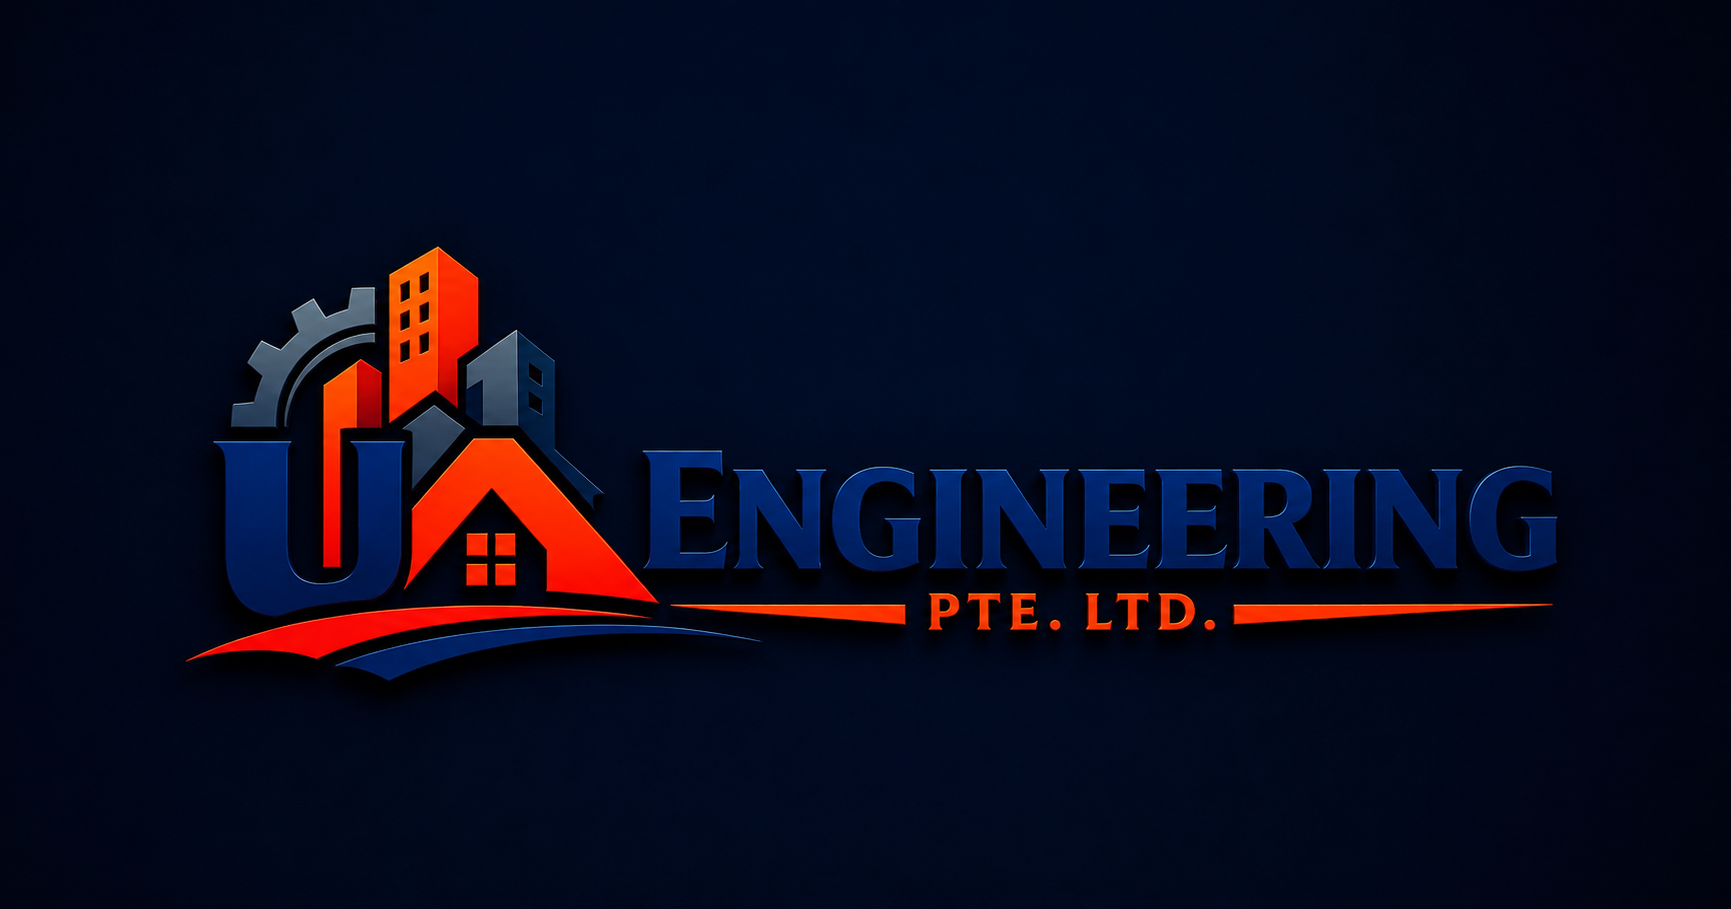
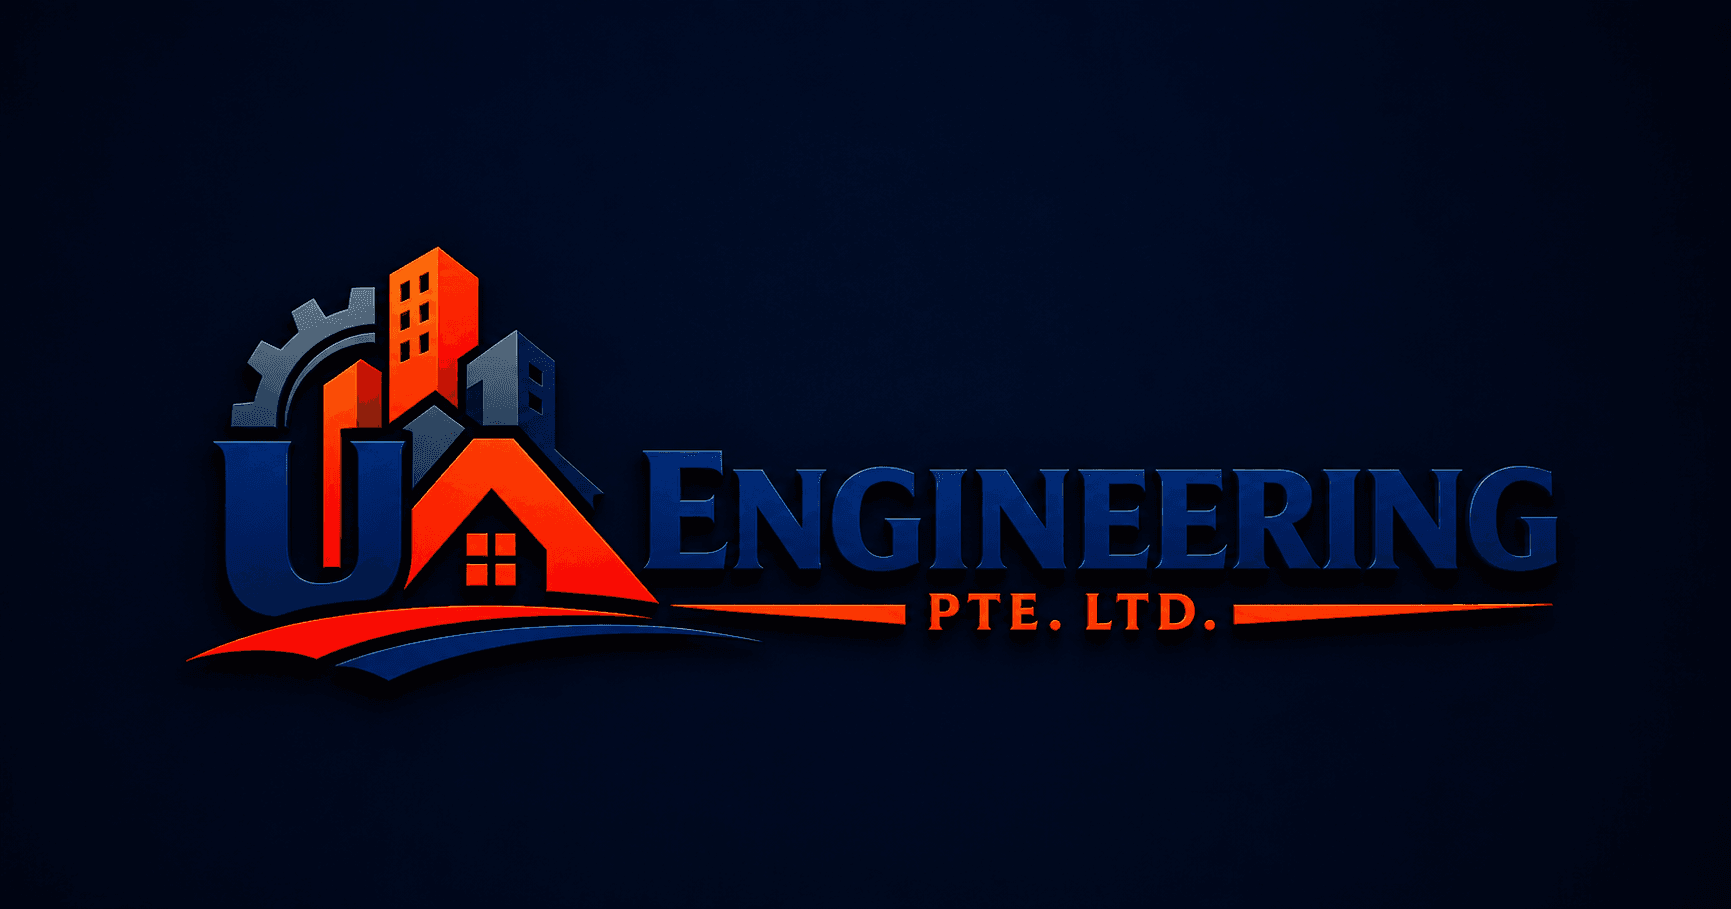
CallBackSection added and OG image added

Changed region(s): [[0.1872, 0.4312, 0.2184, 0.4928], [0.2184, 0.308, 0.2496, 0.3388]]

diff --git a/components/home/CallBackSection.tsx b/components/home/CallBackSection.tsx
@@ -1,0 +1,105 @@
+"use client";
+
+import Image from "next/image";
+import { User, Phone, Briefcase, ChevronDown, Send } from "lucide-react";
+import Container from "components/shared/Container";
+
+export default function CallBackSection() {
+    return (
+        <section className="relative overflow-hidden bg-[#0d121d]">
+            {/* Background Image */}
+            <Image
+                src="/images/home/call/callback-bg.png"
+                alt="UA Engineering"
+                fill
+                priority
+                className="object-cover opacity-25"
+            />
+
+            {/* Overlay */}
+            <div className="absolute inset-0 bg-black/60 " />
+
+            <Container className="relative z-10">
+                <div className="flex flex-col gap-6 py-8 lg:flex-row lg:items-center lg:justify-between lg:py-12">
+                    {/* Left Side */}
+                    <div className="flex items-center gap-6 lg:max-w-xl">
+                        <div className="relative h-[160px] w-[160px] shrink-0 md:h-[190px] md:w-[190px] lg:h-[220px] lg:w-[220px]">
+                            <Image
+                                src="/images/home/call/call-support.png"
+                                alt="Call Support"
+                                fill
+                                className="object-contain"
+                            />
+                        </div>
+
+                        <div>
+                            <h2 className="text-2xl font-extrabold text-white md:text-3xl lg:text-4xl tracking-tight leading-tight">
+                                Let Us Call You
+                            </h2>
+                            <p className="mt-2 text-sm md:text-base text-white/80 max-w-sm">
+                                Need help now? Send a few details - we’ll call you shortly.
+                            </p>
+                        </div>
+                    </div>
+
+                    {/* Form */}
+                    <div className="w-full lg:max-w-2xl xl:max-w-3xl">
+                        <form className="grid gap-3 sm:grid-cols-2 lg:grid-cols-4">
+                            {/* Name Input */}
+                            <div className="relative group">
+                                <User className="absolute left-4 top-1/2 h-4 w-4 -translate-y-1/2 text-slate-400 transition-colors duration-300 group-focus-within:text-primary" />
+                                <input
+                                    type="text"
+                                    placeholder="Your Name *"
+                                    required
+                                    className="h-12 w-full rounded-md border border-slate-200 bg-white pl-11 pr-4 text-slate-800 placeholder:text-slate-400 outline-none transition-all duration-300 focus:border-primary focus:ring-1 focus:ring-primary text-sm"
+                                />
+                            </div>
+
+                            {/* Service Need Select */}
+                            <div className="relative group">
+                                <Briefcase className="absolute left-4 top-1/2 h-4 w-4 -translate-y-1/2 text-slate-400 transition-colors duration-300 group-focus-within:text-primary" />
+                                <select
+                                    required
+                                    className="h-12 w-full appearance-none rounded-md border border-slate-200 bg-white pl-11 pr-8 text-slate-800 placeholder:text-slate-400 outline-none transition-all duration-300 focus:border-primary focus:ring-1 focus:ring-primary text-sm"
+                                >
+                                    <option value="" className="text-slate-400">Service Need *</option>
+                                    <option>Renovation & Upgrading</option>
+                                    <option>Structural & Exterior Works</option>
+                                    <option>Painting & Waterproofing</option>
+                                    <option>Aluminium & Glazing Works</option>
+                                    <option>Electrical, Plumbing & Aircon</option>
+                                    <option>Solar Panel Installation</option>
+                                </select>
+                                <ChevronDown className="pointer-events-none absolute right-4 top-1/2 h-4 w-4 -translate-y-1/2 text-slate-400 transition-colors duration-300 group-focus-within:text-primary" />
+                            </div>
+
+                            {/* Phone Input */}
+                            <div className="relative group">
+                                <Phone className="absolute left-4 top-1/2 h-4 w-4 -translate-y-1/2 text-slate-400 transition-colors duration-300 group-focus-within:text-primary" />
+                                <input
+                                    type="tel"
+                                    placeholder="Phone Number *"
+                                    required
+                                    className="h-12 w-full rounded-md border border-slate-200 bg-white pl-11 pr-4 text-slate-800 placeholder:text-slate-400 outline-none transition-all duration-300 focus:border-primary focus:ring-1 focus:ring-primary text-sm"
+                                />
+                            </div>
+
+                            {/* Submit Button */}
+                            <button
+                                type="submit"
+                                className="group/submit relative h-12 w-full overflow-hidden rounded-md bg-primary px-6 font-bold uppercase tracking-wider text-white shadow-md transition-all duration-300 hover:shadow-lg text-xs"
+                            >
+                                <span className="absolute inset-0 translate-x-[-101%] rounded-md bg-secondary transition-transform duration-500 ease-in-out group-hover/submit:translate-x-0" />
+                                <span className="relative z-10 flex items-center justify-center gap-1.5 transition-colors duration-300">
+                                    Submit Now
+                                    <Send size={12} className="transition-transform duration-300 group-hover/submit:translate-x-1" />
+                                </span>
+                            </button>
+                        </form>
+                    </div>
+                </div>
+            </Container>
+        </section>
+    );
+}

diff --git a/components/home/Hero.tsx b/components/home/Hero.tsx
@@ -20,7 +20,7 @@ const highlights = [
 export default function Hero() {
   return (
     <div className="bg-white">
-      <section className="relative h-[calc(100svh-132px)] overflow-hidden bg-white lg:h-[calc(100vh-132px)]">
+      <section className="relative overflow-hidden bg-white lg:h-[calc(100vh-132px)] py-8 sm:py-12 lg:py-0">
         <Image
           src="/images/home/hero/hero-bg.png"
           alt=""
@@ -33,8 +33,8 @@ export default function Hero() {
         <div className="absolute inset-0 bg-gradient-to-b from-white/85 via-[#eef5ff]/45 to-white/80" />
         <div className="absolute inset-0 bg-gradient-to-r from-white/60 via-transparent to-white/35" />
 
-        <Container className="relative flex h-[calc(100svh-132px)] flex-col gap-4 py-4 sm:gap-6 sm:py-6 lg:h-[calc(100vh-132px)] lg:gap-0 lg:py-0">
-          <div className="mx-auto w-full max-w-[1320px] pt-7 text-center sm:pt-12 md:pt-14 lg:pt-20 xl:pt-24">
+        <Container className="relative flex flex-col gap-4 lg:h-full lg:gap-0 lg:py-0">
+          <div className="mx-auto w-full max-w-[1320px] pt-4 text-center sm:pt-6 lg:pt-20 xl:pt-24">
             <h1 className="mx-auto max-w-[1240px] text-3xl font-bold leading-[1.02] text-secondary sm:text-5xl">
               From Renovation to Painting, Roofing, Electrical, Plumbing and
               Steel Works.
@@ -73,7 +73,7 @@ export default function Hero() {
             </div>
           </div>
 
-          <div className="relative mx-auto mt-auto grid w-full max-w-[1160px] grid-cols-2 gap-2 rounded-[22px] bg-white/88 p-2 shadow-[0_18px_55px_rgba(15,23,42,0.18)] backdrop-blur sm:gap-3 sm:rounded-[34px] sm:p-3 lg:absolute lg:inset-x-4 lg:bottom-6 lg:grid-cols-4">
+          <div className="relative mx-auto mt-8 sm:mt-12 grid w-full max-w-[1160px] grid-cols-2 gap-2 rounded-[22px] bg-white/88 p-2 shadow-[0_18px_55px_rgba(15,23,42,0.18)] backdrop-blur sm:gap-3 sm:rounded-[34px] sm:p-3 lg:absolute lg:inset-x-4 lg:bottom-6 lg:grid-cols-4">
             {highlights.map(({ label, icon: Icon }) => (
               <div
                 key={label}

diff --git a/app/layout.tsx b/app/layout.tsx
@@ -18,8 +18,7 @@ const josefinSans = Josefin_Sans({
   variable: "--font-josefin-sans",
 });
 
-const siteUrl =
-  process.env.NEXT_PUBLIC_SITE_URL || "https://ua-engineering-pte.vercel.app/";
+const siteUrl = "https://ua-engineering-pte.vercel.app";
 
 /* -------------------------------------------------------------------------- */
 /*                                   METADATA                                 */

diff --git a/app/page.tsx b/app/page.tsx
@@ -1,3 +1,4 @@
+import CallBackSection from "components/home/CallBackSection";
 import Hero from "components/home/Hero";
 import Services from "components/home/Services";
 import React from "react";
@@ -7,6 +8,7 @@ const page = () => {
     <div>
       <Hero />
       <Services />
+      <CallBackSection />
     </div>
   );
 };